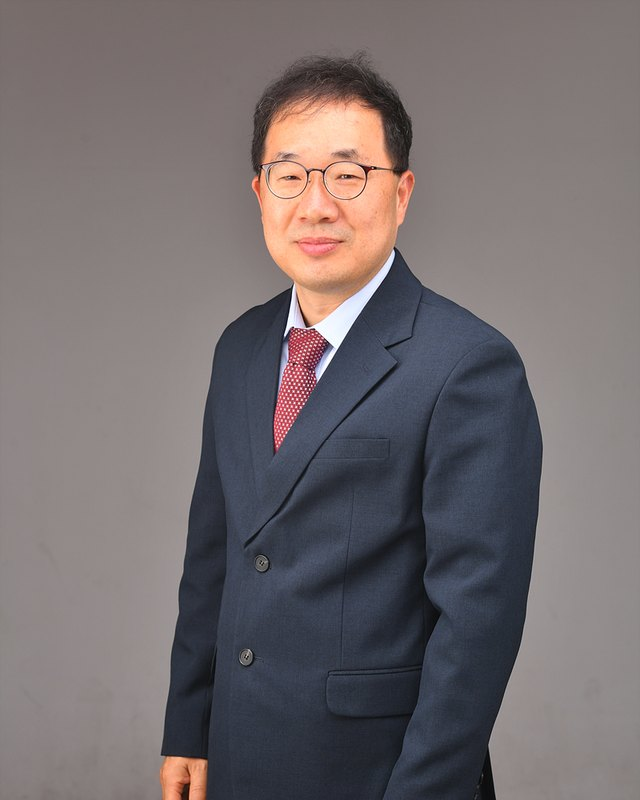
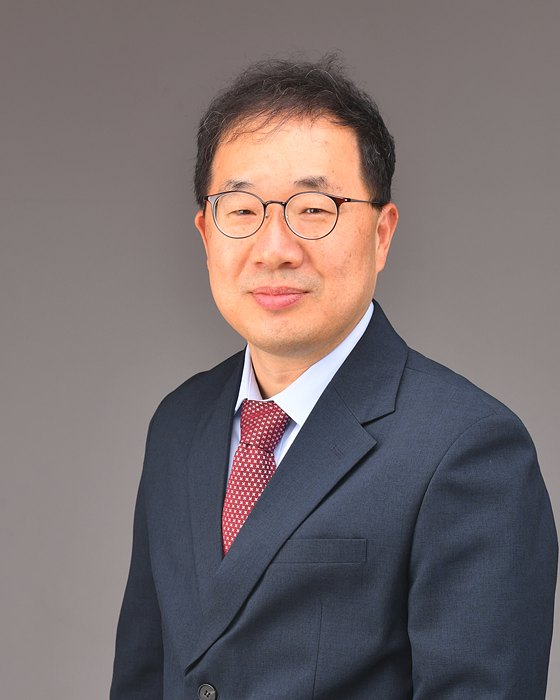
Members: compact PI section, larger student cards with recruiting call, alumni by degree; lab phone in footer
Claude-Session: https://claude.ai/code/session_012rkdGFB5CH59hFT9GJq7fJ

diff --git a/members.html b/members.html
@@ -37,20 +37,18 @@
 </section>
 
 <!-- PRINCIPAL INVESTIGATOR -->
-<section id="pi" style="scroll-margin-top:96px">
+<section id="pi" class="pi-section" style="scroll-margin-top:96px">
   <div class="wrap prof">
     <div class="prof-photo">
-      <img src="assets/img/professor.jpg" alt="Prof. Doohwan Lee" width="640" height="800">
+      <img src="assets/img/professor.jpg" alt="Prof. Doohwan Lee" width="560" height="700">
     </div>
     <div class="prof-body">
       <p class="eyebrow">Principal Investigator</p>
-      <h2>Doohwan Lee, Ph.D.</h2>
-      <p class="lead" style="margin:12px 0 0">Professor, Department of Chemical Engineering, University of Seoul<br>이두환 교수 · 서울시립대학교 화학공학과</p>
-      <div class="btns" style="margin-top:24px">
-        <a class="btn" href="mailto:dolee@uos.ac.kr">dolee@uos.ac.kr</a>
-        <a class="btn" href="tel:+82264905472">+82-2-6490-5472</a>
-      </div>
+      <h2 class="prof-name">Doohwan Lee, Ph.D.</h2>
+      <p class="prof-title">Professor, Department of Chemical Engineering, University of Seoul<br>이두환 교수 · 서울시립대학교 화학공학과</p>
+      <p class="prof-contact"><a href="mailto:dolee@uos.ac.kr">dolee@uos.ac.kr</a><span aria-hidden="true">·</span><span>Office +82-2-6490-2371</span></p>
       <ol class="timeline">
+        <li><div class="when">Mar 2010 – Present</div><div class="what">Professor, Department of Chemical Engineering</div><div class="where">University of Seoul, Seoul, Korea</div></li>
         <li><div class="when">Feb 2016 – Feb 2017</div><div class="what">Visiting Scientist</div><div class="where">US Department of Energy</div></li>
         <li><div class="when">Dec 2004 – Feb 2010</div><div class="what">Samsung Advanced Institute of Technology</div><div class="where">Samsung Electronics, Yongin, Korea</div></li>
         <li><div class="when">Nov 2003 – Nov 2004</div><div class="what">Postdoctoral Research Associate</div><div class="where">University of California, Berkeley, CA</div></li>
@@ -66,32 +64,36 @@
   <div class="wrap">
     <p class="eyebrow">Students</p>
     <h2 class="subhead">Current students</h2>
-    <!-- 구성원 추가: <article class="person"> 블록을 복사하세요. 사진은 assets/img/ 에 올리고 <img class="avatar" src="assets/img/이름.jpg" ...> 줄의 파일명을 바꾸면 됩니다 -->
-    <div class="grid-3">
-      <article class="person">
-        <div class="person-top">
-          <img class="avatar" src="assets/img/narim-park.jpg" alt="Narim Park" width="320" height="320">
-          <div><div class="person-name">Narim Park</div><div class="person-role">박나림 · M.S. student</div></div>
-        </div>
+    <!-- 구성원 추가: <article class="student"> 블록을 복사하세요. 사진은 assets/img/ 에 올리고 img 줄의 파일명을 바꾸면 됩니다 -->
+    <div class="students">
+      <article class="student">
+        <img src="assets/img/narim-park.jpg" alt="Narim Park" width="320" height="320">
+        <div class="student-name">Narim Park</div>
+        <div class="student-role">박나림 · M.S. student</div>
         <p>Semi-solid flow battery 시스템 개발 및 고효율화 연구</p>
         <a href="mailto:skfla33@uos.ac.kr">skfla33@uos.ac.kr</a>
       </article>
-      <article class="person">
-        <div class="person-top">
-          <img class="avatar" src="assets/img/hongsup-shim.jpg" alt="HongSup Shim" width="320" height="320">
-          <div><div class="person-name">HongSup Shim</div><div class="person-role">심홍섭 · M.S. student</div></div>
-        </div>
+      <article class="student">
+        <img src="assets/img/hongsup-shim.jpg" alt="HongSup Shim" width="320" height="320">
+        <div class="student-name">HongSup Shim</div>
+        <div class="student-role">심홍섭 · M.S. student</div>
         <p>Vanadium redox flow battery 전극소재 개발 및 시스템 고효율화 연구</p>
         <a href="mailto:hongsup14@uos.ac.kr">hongsup14@uos.ac.kr</a>
       </article>
-      <article class="person">
-        <div class="person-top">
-          <img class="avatar" src="assets/img/dongyoon-lee.jpg" alt="DongYoon Lee" width="320" height="320">
-          <div><div class="person-name">DongYoon Lee</div><div class="person-role">이동윤 · M.S. student</div></div>
-        </div>
+      <article class="student">
+        <img src="assets/img/dongyoon-lee.jpg" alt="DongYoon Lee" width="320" height="320">
+        <div class="student-name">DongYoon Lee</div>
+        <div class="student-role">이동윤 · M.S. student</div>
         <p>Semi-solid flow battery 시스템 개발 및 고효율화 연구</p>
         <a href="mailto:ldy3808@uos.ac.kr">ldy3808@uos.ac.kr</a>
       </article>
+    </div>
+    <div class="recruit">
+      <div>
+        <div class="recruit-title">We are recruiting Ph.D., M.S. and undergraduate researchers.</div>
+        <div class="recruit-sub">대학원 진학 및 학부연구생 참여를 희망하는 학생은 언제든지 연락 바랍니다. 대학원생에게는 등록금과 생활비를 지원합니다.</div>
+      </div>
+      <a class="btn solid" href="contact.html">Join us</a>
     </div>
   </div>
 </section>
@@ -101,27 +103,35 @@
   <div class="wrap">
     <p class="eyebrow">Alumni</p>
     <h2 class="subhead">Alumni</h2>
-    <!-- 학위·졸업연도는 <span class="deg">M.S. 2025</span> 형식으로 이름 옆에 넣으세요 -->
-    <ul class="alumni-list">
-      <li><span>Jaeho Jo</span><span class="deg"></span></li>
-      <li><span>Seunghee Hong</span><span class="deg"></span></li>
-      <li><span>Jaewoo Park</span><span class="deg"></span></li>
-      <li><span>Jihun Paick</span><span class="deg"></span></li>
-      <li><span>Seongcheol Kim</span><span class="deg"></span></li>
-      <li><span>Dohyun Han</span><span class="deg"></span></li>
-      <li><span>Hyebin Kim</span><span class="deg"></span></li>
-      <li><span>Hyunju Lee</span><span class="deg"></span></li>
-      <li><span>Seungju Lee</span><span class="deg"></span></li>
-      <li><span>Hyebin Lim</span><span class="deg"></span></li>
-      <li><span>Jieun Kim</span><span class="deg"></span></li>
-      <li><span>Jaesung Kim</span><span class="deg"></span></li>
-      <li><span>Jiyeon Kim</span><span class="deg"></span></li>
-      <li><span>Inbae Kim</span><span class="deg"></span></li>
-      <li><span>Kwanhyung Lim</span><span class="deg"></span></li>
-      <li><span>Youngwoo Choi</span><span class="deg"></span></li>
-      <li><span>Juheon Lee</span><span class="deg"></span></li>
-      <li><span>Changsun Han</span><span class="deg"></span></li>
-    </ul>
+    <!-- 졸업생 추가: 해당 학위 목록에 <li>이름</li> 한 줄을 추가하세요 -->
+    <div class="alumni-group">
+      <h3>Ph.D.</h3>
+      <ul class="alumni-names">
+        <li>Jieun Kim</li>
+      </ul>
+    </div>
+    <div class="alumni-group">
+      <h3>M.S.</h3>
+      <ul class="alumni-names">
+        <li>Jaeho Jo</li>
+        <li>Seunghee Hong</li>
+        <li>Jaewoo Park</li>
+        <li>Jihun Paick</li>
+        <li>Seongcheol Kim</li>
+        <li>Dohyun Han</li>
+        <li>Hyebin Kim</li>
+        <li>Hyunju Lee</li>
+        <li>Seungju Lee</li>
+        <li>Hyebin Lim</li>
+        <li>Jaesung Kim</li>
+        <li>Jiyeon Kim</li>
+        <li>Inbae Kim</li>
+        <li>Kwanhyung Lim</li>
+        <li>Youngwoo Choi</li>
+        <li>Juheon Lee</li>
+        <li>Changsun Han</li>
+      </ul>
+    </div>
   </div>
 </section>
 </main>
@@ -130,7 +140,7 @@
   <div class="wrap">
     <div class="footer-text">
       <span>© 2026 Green Energy &amp; Catalysis Lab · 그린에너지 및 촉매 연구실</span>
-      <span>Room 323, UOS Innovation Complex, University of Seoul · <a href="mailto:dolee@uos.ac.kr">dolee@uos.ac.kr</a></span>
+      <span>Room 323, UOS Innovation Complex, University of Seoul · Lab +82-2-6490-5472</span>
     </div>
     <a href="https://www.uos.ac.kr" aria-label="University of Seoul"><img class="uos" src="assets/img/uos-logo.png" alt="University of Seoul" width="751" height="123"></a>
   </div>

diff --git a/assets/style.css b/assets/style.css
@@ -99,14 +99,15 @@ section{padding:104px 0}
 
 /* professor */
 .prof{display:flex;flex-wrap:wrap;gap:56px}
-.prof-photo{flex:1 1 300px;max-width:380px}
+.prof-photo{flex:0 1 260px;max-width:260px}
 .prof-photo .figph{aspect-ratio:4/5}
-.prof-photo img{border-radius:20px;width:100%;aspect-ratio:4/5;object-fit:cover}
+.prof-photo img{border-radius:20px;width:100%;height:auto;aspect-ratio:4/5;object-fit:cover}
+.prof-photo{align-self:flex-start}
 .prof-body{flex:999 1 520px;min-width:0}
-.timeline{list-style:none;margin:40px 0 0;padding:0;border-left:2px solid var(--line)}
-.timeline li{position:relative;padding:0 0 28px 28px}
+.timeline{list-style:none;margin:28px 0 0;padding:0;border-left:2px solid var(--line)}
+.timeline li{position:relative;padding:0 0 12px 24px;line-height:1.45}
 .timeline li:last-child{padding-bottom:0}
-.timeline li::before{content:"";position:absolute;left:-7px;top:8px;width:12px;height:12px;border-radius:50%;background:#A9B5AE}
+.timeline li::before{content:"";position:absolute;left:-7px;top:6px;width:12px;height:12px;border-radius:50%;background:#A9B5AE}
 .timeline li:first-child::before{background:var(--accent)}
 .timeline .when{font-family:var(--mono);font-size:13px;color:var(--muted)}
 .timeline .what{font-weight:600}
@@ -150,6 +151,29 @@ a.pub:hover{background:rgba(31,122,51,.04);color:var(--ink)}
 .split > div{flex:1 1 400px;min-width:0}
 
 /* members */
+.pi-section{padding:72px 0}
+.prof{gap:48px}
+.prof-name{font-size:30px;letter-spacing:-.01em}
+.prof-title{margin:8px 0 0;font-size:16.5px;color:var(--ink-2)}
+.prof-contact{margin:12px 0 0;font-size:15px;color:var(--muted);display:flex;flex-wrap:wrap;gap:4px 10px}
+.timeline .what{font-size:16px}
+.timeline .where{font-size:15px}
+.students{display:grid;grid-template-columns:repeat(auto-fit,minmax(280px,1fr));gap:24px}
+.student{background:var(--paper);border:1px solid var(--line);border-radius:24px;padding:36px 28px 32px;display:flex;flex-direction:column;align-items:center;text-align:center;gap:8px}
+.student img{width:168px;height:168px;border-radius:50%;object-fit:cover;margin-bottom:12px;box-shadow:0 0 0 6px var(--accent-soft)}
+.student-name{font-family:var(--display);font-stretch:112%;font-weight:800;font-size:24px;letter-spacing:-.01em}
+.student-role{color:var(--muted);font-size:16px}
+.student p{margin:8px 0 4px;color:var(--ink-2);font-size:17px}
+.student a{font-size:15px;margin-top:auto}
+.recruit{margin-top:28px;background:var(--paper);border:2px solid var(--accent);border-radius:24px;padding:28px 32px;display:flex;flex-wrap:wrap;align-items:center;justify-content:space-between;gap:20px 32px}
+.recruit > div{flex:1 1 420px}
+.recruit-title{font-family:var(--display);font-stretch:112%;font-weight:800;font-size:24px;line-height:1.25}
+.recruit-sub{margin-top:8px;color:var(--ink-2)}
+.recruit .btn{font-size:18px;padding:14px 32px}
+.alumni-group{margin-top:28px}
+.alumni-group h3{font-size:22px;color:var(--blue);margin-bottom:12px}
+.alumni-names{list-style:none;margin:0;padding:0;display:grid;grid-template-columns:repeat(auto-fill,minmax(220px,1fr));gap:0 32px}
+.alumni-names li{padding:12px 0;border-bottom:1px solid var(--line-2);font-size:19px;font-weight:500}
 .subhead{font-size:32px;margin:0 0 28px}
 .member-block{padding:88px 0;border-top:1px solid var(--line-2)}
 .alumni-list{list-style:none;margin:0;padding:0;display:grid;grid-template-columns:repeat(auto-fit,minmax(240px,1fr));gap:0 32px}
@@ -171,6 +195,7 @@ a.pub:hover{background:rgba(31,122,51,.04);color:var(--ink)}
 .site-footer{background:var(--paper);color:var(--muted);border-top:1px solid var(--line);font-size:14px}
 .site-footer .wrap{display:flex;flex-wrap:wrap;justify-content:space-between;align-items:center;gap:16px 32px;padding:32px 24px}
 .site-footer .uos{height:40px;width:auto}
+.prof-contact a{color:var(--accent)}
 .footer-text{display:flex;flex-direction:column;gap:4px}
 .site-footer a{color:var(--accent)}
 

diff --git a/contact.html b/contact.html
@@ -38,7 +38,7 @@
     </div>
     <dl class="contact-info">
       <div><dt>Email</dt><dd><a href="mailto:dolee@uos.ac.kr">dolee@uos.ac.kr</a></dd></div>
-      <div><dt>Phone</dt><dd>+82-2-6490-5472<br>+82-2-6490-2371</dd></div>
+      <div><dt>Phone</dt><dd>Lab +82-2-6490-5472<br>Office +82-2-6490-2371</dd></div>
       <div><dt>Address</dt><dd>Room 323, UOS Innovation Complex<br>University of Seoul, 163 Seoulsiripdae-ro<br>Dongdaemun-gu, Seoul 02504, Korea</dd><dd style="font-size:15px;color:#4D5B55;margin-top:4px">서울시 동대문구 서울시립대로 163, 서울시립대학교 미래관 323호</dd></div>
     </dl>
   </div>
@@ -58,7 +58,7 @@
   <div class="wrap">
     <div class="footer-text">
       <span>© 2026 Green Energy &amp; Catalysis Lab · 그린에너지 및 촉매 연구실</span>
-      <span>Room 323, UOS Innovation Complex, University of Seoul · <a href="mailto:dolee@uos.ac.kr">dolee@uos.ac.kr</a></span>
+      <span>Room 323, UOS Innovation Complex, University of Seoul · Lab +82-2-6490-5472</span>
     </div>
     <a href="https://www.uos.ac.kr" aria-label="University of Seoul"><img class="uos" src="assets/img/uos-logo.png" alt="University of Seoul" width="751" height="123"></a>
   </div>

diff --git a/index.html b/index.html
@@ -154,7 +154,7 @@
   <div class="wrap">
     <div class="footer-text">
       <span>© 2026 Green Energy &amp; Catalysis Lab · 그린에너지 및 촉매 연구실</span>
-      <span>Room 323, UOS Innovation Complex, University of Seoul · <a href="mailto:dolee@uos.ac.kr">dolee@uos.ac.kr</a></span>
+      <span>Room 323, UOS Innovation Complex, University of Seoul · Lab +82-2-6490-5472</span>
     </div>
     <a href="https://www.uos.ac.kr" aria-label="University of Seoul"><img class="uos" src="assets/img/uos-logo.png" alt="University of Seoul" width="751" height="123"></a>
   </div>

diff --git a/publications.html b/publications.html
@@ -220,7 +220,7 @@
   <div class="wrap">
     <div class="footer-text">
       <span>© 2026 Green Energy &amp; Catalysis Lab · 그린에너지 및 촉매 연구실</span>
-      <span>Room 323, UOS Innovation Complex, University of Seoul · <a href="mailto:dolee@uos.ac.kr">dolee@uos.ac.kr</a></span>
+      <span>Room 323, UOS Innovation Complex, University of Seoul · Lab +82-2-6490-5472</span>
     </div>
     <a href="https://www.uos.ac.kr" aria-label="University of Seoul"><img class="uos" src="assets/img/uos-logo.png" alt="University of Seoul" width="751" height="123"></a>
   </div>

diff --git a/research.html b/research.html
@@ -100,7 +100,7 @@
   <div class="wrap">
     <div class="footer-text">
       <span>© 2026 Green Energy &amp; Catalysis Lab · 그린에너지 및 촉매 연구실</span>
-      <span>Room 323, UOS Innovation Complex, University of Seoul · <a href="mailto:dolee@uos.ac.kr">dolee@uos.ac.kr</a></span>
+      <span>Room 323, UOS Innovation Complex, University of Seoul · Lab +82-2-6490-5472</span>
     </div>
     <a href="https://www.uos.ac.kr" aria-label="University of Seoul"><img class="uos" src="assets/img/uos-logo.png" alt="University of Seoul" width="751" height="123"></a>
   </div>
